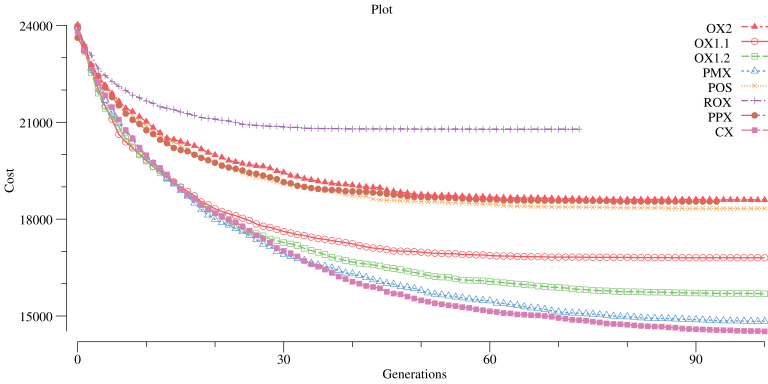
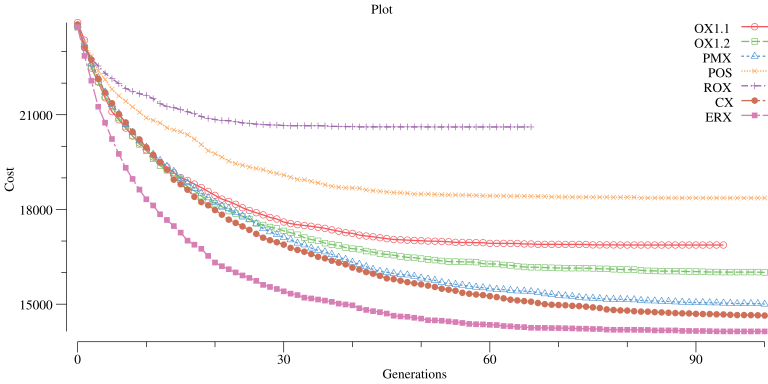
Added EdgeRecombinationCrossover

diff --git a/crossover_edge_recombination.go b/crossover_edge_recombination.go
@@ -1,0 +1,129 @@
+package genetic_algorithm
+
+import (
+	log "github.com/cihub/seelog"
+	"math/rand"
+)
+
+// The edge recombination operator (ERO) is an operator that creates a path that is similar to a set of existing paths (parents) by looking at the edges rather than the vertices.
+//
+// http://en.wikipedia.org/wiki/Edge_recombination_operator
+type EdgeRecombinationCrossover struct {
+}
+
+func NewEdgeRecombinationCrossover() *EdgeRecombinationCrossover {
+	crossover := new(EdgeRecombinationCrossover)
+
+	return crossover
+}
+
+func (crossover *EdgeRecombinationCrossover) ParentsCount() int {
+	return 2
+}
+
+func (crossover *EdgeRecombinationCrossover) Crossover(parents Chromosomes) Chromosomes {
+	if len(parents) != crossover.ParentsCount() {
+		panic("Incorrect parents count")
+	}
+
+	p1, ok := parents[0].(*OrderedChromosome)
+	if !ok {
+		panic("Expects OrderedChromosome")
+	}
+	p2, ok := parents[1].(*OrderedChromosome)
+	if !ok {
+		panic("Expects OrderedChromosome")
+	}
+
+	genesLen := p1.Genes().Len()
+
+	if genesLen != p2.Genes().Len() {
+		panic("Crossover do not support different chromosome size")
+	}
+
+	matrix := crossover.generateMatrix(p1, p2)
+
+	log.Tracef("Cross with %v", matrix)
+
+	c1 := crossover.crossover(p1, p2, matrix)
+
+	return Chromosomes{c1}
+}
+func (crossover *EdgeRecombinationCrossover) generateMatrix(p1, p2 *OrderedChromosome) map[int]map[int]bool {
+	p1genes := p1.OrderedGenes()
+	p2genes := p2.OrderedGenes()
+
+	genesLen := p1genes.Len()
+
+	matrix := make(map[int]map[int]bool, genesLen)
+	for i := 0; i < genesLen; i++ {
+		matrix[p1genes[i]] = make(map[int]bool, 4)
+	}
+
+	for i := 0; i < genesLen; i++ {
+		ind1 := (i - 1 + genesLen) % genesLen
+		ind2 := (i + 1) % genesLen
+
+		matrix[p1genes[i]][p1genes[ind1]] = true
+		matrix[p1genes[i]][p1genes[ind2]] = true
+
+		matrix[p2genes[i]][p2genes[ind1]] = true
+		matrix[p2genes[i]][p2genes[ind2]] = true
+	}
+
+	return matrix
+}
+func (crossover *EdgeRecombinationCrossover) crossover(p1, p2 *OrderedChromosome, matrix map[int]map[int]bool) (c1 ChromosomeInterface) {
+	p1genes := p1.OrderedGenes()
+	p2genes := p2.OrderedGenes()
+
+	genesLen := p1genes.Len()
+
+	c1 = NewEmptyOrderedChromosome(genesLen)
+	c1genes := c1.Genes().(OrderedGenes)
+
+	crossover.fillChild(c1genes, p1genes, p2genes, matrix)
+
+	return
+}
+func (crossover *EdgeRecombinationCrossover) fillChild(c, p1, p2 OrderedGenes, matrix map[int]map[int]bool) {
+	nextNs := make([]int, 0, 4)
+
+	var n int
+	if rand.Intn(2) == 0 {
+		n = p1[0]
+	} else {
+		n = p2[0]
+	}
+	for i := 0; i < len(c); i++ {
+		c[i] = n
+
+		nextNs = nextNs[0:0]
+		minLen := 0
+		for k, _ := range matrix[n] {
+			delete(matrix[k], n)
+
+			if len(nextNs) == 0 || len(matrix[k]) == minLen {
+				nextNs = append(nextNs, k)
+				minLen = len(matrix[k])
+			} else if len(matrix[k]) < minLen {
+				nextNs = nextNs[0:0]
+				nextNs = append(nextNs, k)
+				minLen = len(matrix[k])
+			}
+		}
+
+		delete(matrix, n)
+
+		if len(nextNs) == 0 {
+			if len(matrix) == 0 {
+				break
+			}
+			for k, _ := range matrix {
+				n = k
+			}
+		} else {
+			n = nextNs[rand.Intn(len(nextNs))]
+		}
+	}
+}

diff --git a/~crossover_test.go b/~crossover_test.go
@@ -173,6 +173,65 @@ func (s *CrossoverSuite) TestOrderBasedCrossover_crossover(c *C) {
 	compareTwoOrderedGenesWithoutOrder(c, c1, c2, expectedPart1Genes, expectedPart2Genes)
 }
 
+func (s *CrossoverSuite) TestEdgeRecombinationCrossover_generateMatrix(c *C) {
+	parent1Genes := OrderedGenes{1, 2, 3, 5, 6, 4}
+	parent2Genes := OrderedGenes{3, 1, 2, 4, 5, 6}
+
+	parent1 := NewOrderedChromosome(parent1Genes)
+	parent2 := NewOrderedChromosome(parent2Genes)
+
+	matrix := NewEdgeRecombinationCrossover().generateMatrix(parent1, parent2)
+
+	result := map[int]map[int]bool{
+		1: map[int]bool{2: true, 3: true, 4: true},
+		2: map[int]bool{1: true, 3: true, 4: true},
+		3: map[int]bool{1: true, 2: true, 5: true, 6: true},
+		4: map[int]bool{1: true, 2: true, 5: true, 6: true},
+		5: map[int]bool{3: true, 4: true, 6: true},
+		6: map[int]bool{3: true, 4: true, 5: true},
+	}
+
+	c.Assert(matrix, DeepEquals, result)
+}
+func (s *CrossoverSuite) TestEdgeRecombinationCrossover_fillChild(c *C) {
+	matrix := map[int]map[int]bool{
+		1: map[int]bool{4: true, 5: true, 6: true},
+		2: map[int]bool{3: true, 4: true, 6: true},
+		3: map[int]bool{2: true, 5: true},
+		4: map[int]bool{1: true, 2: true},
+		5: map[int]bool{1: true, 3: true, 6: true},
+		6: map[int]bool{1: true, 2: true, 5: true},
+	}
+
+	c1genes := make(OrderedGenes, 6)
+
+	NewEdgeRecombinationCrossover().fillChild(c1genes, OrderedGenes{1}, OrderedGenes{1}, matrix)
+
+	result1 := OrderedGenes{1, 4, 2, 3, 5, 6}
+	result2 := OrderedGenes{1, 4, 2, 6, 5, 3}
+
+	if !reflect.DeepEqual(c1genes, result1) && !reflect.DeepEqual(c1genes, result2) {
+		c.Fatalf("Unexpected genes: %v", c1genes)
+	}
+}
+func (s *CrossoverSuite) TestEdgeRecombinationCrossover_crossover(c *C) {
+	parent1Genes := OrderedGenes{1, 0, 7, 4, 3, 2, 6, 5}
+	parent2Genes := OrderedGenes{5, 3, 4, 2, 6, 7, 1, 0}
+
+	parent1 := NewOrderedChromosome(parent1Genes)
+	parent2 := NewOrderedChromosome(parent2Genes)
+
+	for j := 0; j < 10; j++ {
+		children := NewEdgeRecombinationCrossover().Crossover([]ChromosomeInterface{parent1, parent2})
+		childGenes := children[0].Genes().(OrderedGenes)
+		for i := 0; i < len(childGenes); i++ {
+			if childGenes[i] == -1 {
+				c.Fatalf("Unexpected genes: %v", childGenes)
+			}
+		}
+	}
+}
+
 func compareTwoBinaryGenesWithoutOrder(c *C, c1, c2 ChromosomeInterface, ec1, ec2 BinaryGenes) {
 	var expC2 BinaryGenes
 	if reflect.DeepEqual(c1.Genes(), ec1) {

diff --git a/examples/tsp_with_plot_comparison/main.go b/examples/tsp_with_plot_comparison/main.go
@@ -54,13 +54,13 @@ func main() {
 					Iterations(iterations)).
 				AddMinCostDataSet().Name("ROX").Done().
 				Done().
-			AddDataProvider(NewOptimizerAggregator().
+			/*AddDataProvider(NewOptimizerAggregator().
 					Optimizer(createOptimizer(6)).
 					StatisticsOptions(NewStatisticsDefaultOptions().
 						TrackMinCosts()).
 					Iterations(iterations)).
 				AddMinCostDataSet().Name("PPX").Done().
-				Done().
+				Done().*/
 			AddDataProvider(NewOptimizerAggregator().
 					Optimizer(createOptimizer(7)).
 					StatisticsOptions(NewStatisticsDefaultOptions().
@@ -68,12 +68,19 @@ func main() {
 					Iterations(iterations)).
 				AddMinCostDataSet().Name("CX").Done().
 				Done().
-			AddDataProvider(NewOptimizerAggregator().
+			/*AddDataProvider(NewOptimizerAggregator().
 					Optimizer(createOptimizer(8)).
 					StatisticsOptions(NewStatisticsDefaultOptions().
 						TrackMinCosts()).
 					Iterations(iterations)).
 				AddMinCostDataSet().Name("OX2").Done().
+				Done().*/
+			AddDataProvider(NewOptimizerAggregator().
+					Optimizer(createOptimizer(9)).
+					StatisticsOptions(NewStatisticsDefaultOptions().
+						TrackMinCosts()).
+					Iterations(iterations)).
+				AddMinCostDataSet().Name("ERX").Done().
 				Done().
 			Done().
 		Draw(8, 4, "plot.png")
@@ -114,6 +121,8 @@ func createOptimizer(ver int) OptimizerInterface {
 		optimizer.Crossover(NewCycleCrossover())
 	} else if ver == 8 {
 		optimizer.Crossover(NewOrderBasedCrossover())
+	} else if ver == 9 {
+		optimizer.Crossover(NewEdgeRecombinationCrossover())
 	}
 
 	return optimizer
